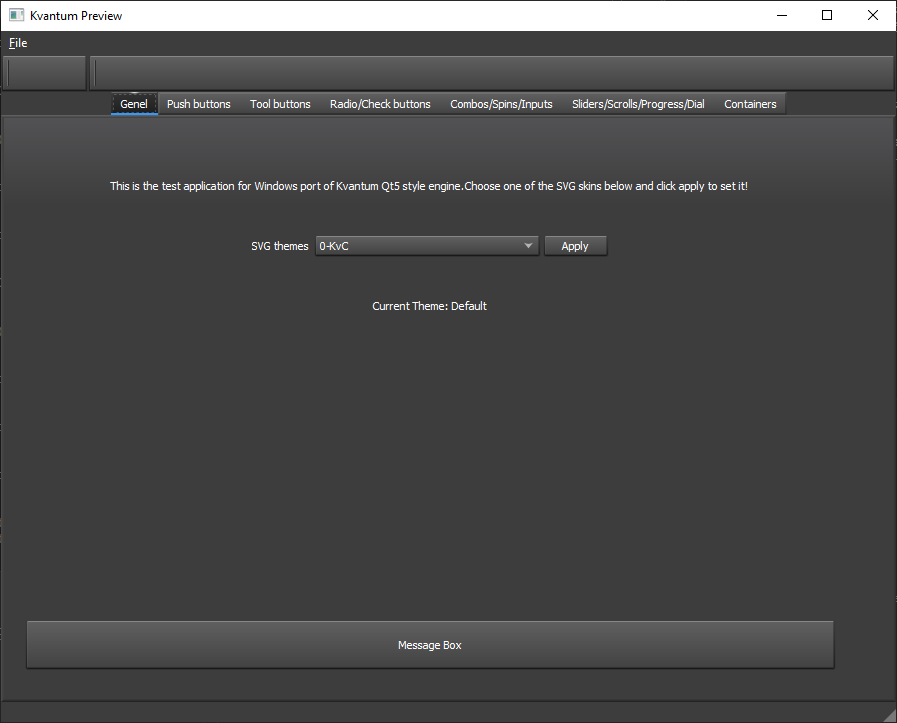
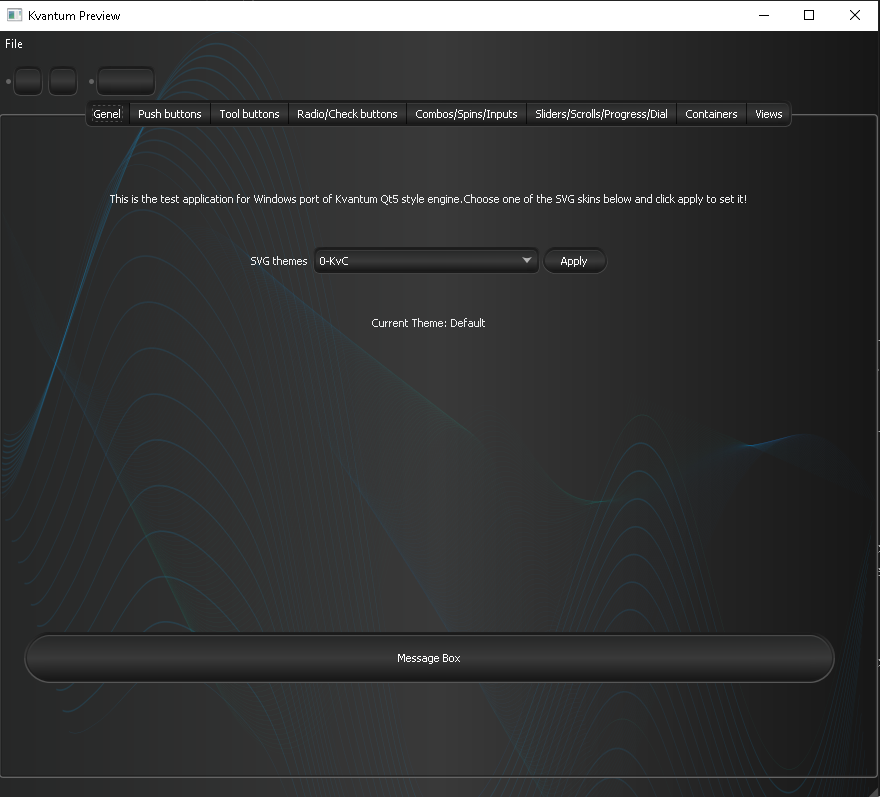
Update preview screenshot
Update preview screenshot.

diff --git a/README.md b/README.md
@@ -7,7 +7,7 @@
 
 Qt5 style engine + several dark themes for Windows 10. Tehnically this is a Kvantum Qt5 style engine port for Windows. Currently a bit hacky, use at your own risk.
 
-<p align="center"><img src="screens/preview.png" width= 600"/><br>Theme preview</p>
+<p align="center"><img src="screens/preview.png" width= 600"/><br>Theme (Glow Dark) preview</p>
 
 
 Build instructions 👨🏼💻
